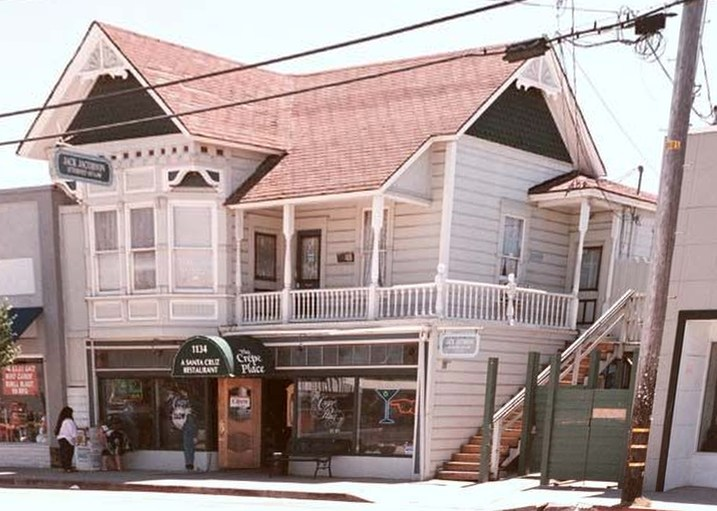
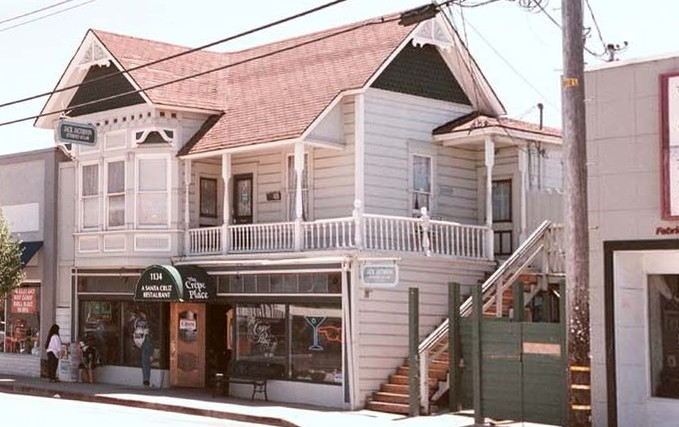
Upgrade The Crepe Place (LH-lm-84117-08) to matching southwest Street View vantage (261 inliers)

diff --git a/data/alignments.js b/data/alignments.js
@@ -1223,27 +1223,27 @@ window.STREETVIEW_ALIGNMENTS = {
       "catalogId": "LH-lm-84117-08",
       "landmarkTitle": "The Crepe Place",
       "historicalLabel": "Jun 2001",
-      "modernLabel": "2000s; Santa Cruz Street View",
+      "modernLabel": "1134 Soquel Ave Street View",
       "album": "santa-cruz",
       "svImage": "assets/alignments/sc_lh_lm_84117_08_sv.jpg",
       "insetImage": "assets/alignments/sc_lh_lm_84117_08_inset.jpg",
       "canvasWidth": 1650,
       "canvasHeight": 1080,
       "rectPct": {
-        "left": 34.9091,
-        "top": 21.2963,
-        "width": 43.4545,
-        "height": 47.3148
+        "left": 36.3636,
+        "top": 31.4815,
+        "width": 41.1515,
+        "height": 39.537
       },
-      "panoId": "drnbAcQyFAXXvs0Sbdj3pA",
-      "panoLat": 36.97966,
-      "panoLng": -122.01097,
-      "heading": 172.6,
-      "pitch": 3.4,
-      "fov": 88.0,
-      "inliers": 38,
-      "reprojErrorPx": 1.29,
-      "streetViewPanoUrl": "https://www.google.com/maps/@?api=1&map_action=pano&pano=drnbAcQyFAXXvs0Sbdj3pA&heading=172.6&pitch=3.4&fov=88.0"
+      "panoId": "dleIU5MBe1_ZJTK2R4jCSg",
+      "panoLat": 36.97953,
+      "panoLng": -122.01122,
+      "heading": 99.7,
+      "pitch": 4.2,
+      "fov": 78.0,
+      "inliers": 261,
+      "reprojErrorPx": 1.6,
+      "streetViewPanoUrl": "https://www.google.com/maps/@?api=1&map_action=pano&pano=dleIU5MBe1_ZJTK2R4jCSg&heading=99.7&pitch=4.2&fov=78.0"
     },
     "AF1QipMK6uBGfFHlps59kBBt9WqiK1N-gFo7TrNBxm7q": {
       "photoId": "AF1QipMK6uBGfFHlps59kBBt9WqiK1N-gFo7TrNBxm7q",

diff --git a/index.html b/index.html
@@ -664,7 +664,7 @@
 
   <script src="vendor/leaflet.js"></script>
   <script src="data/photos.js?v=20261113c"></script>
-  <script src="data/alignments.js?v=20261113n54"></script>
+  <script src="data/alignments.js?v=20261113n54b"></script>
   <script src="app.js?v=20261113c"></script>
 </body>
 </html>
